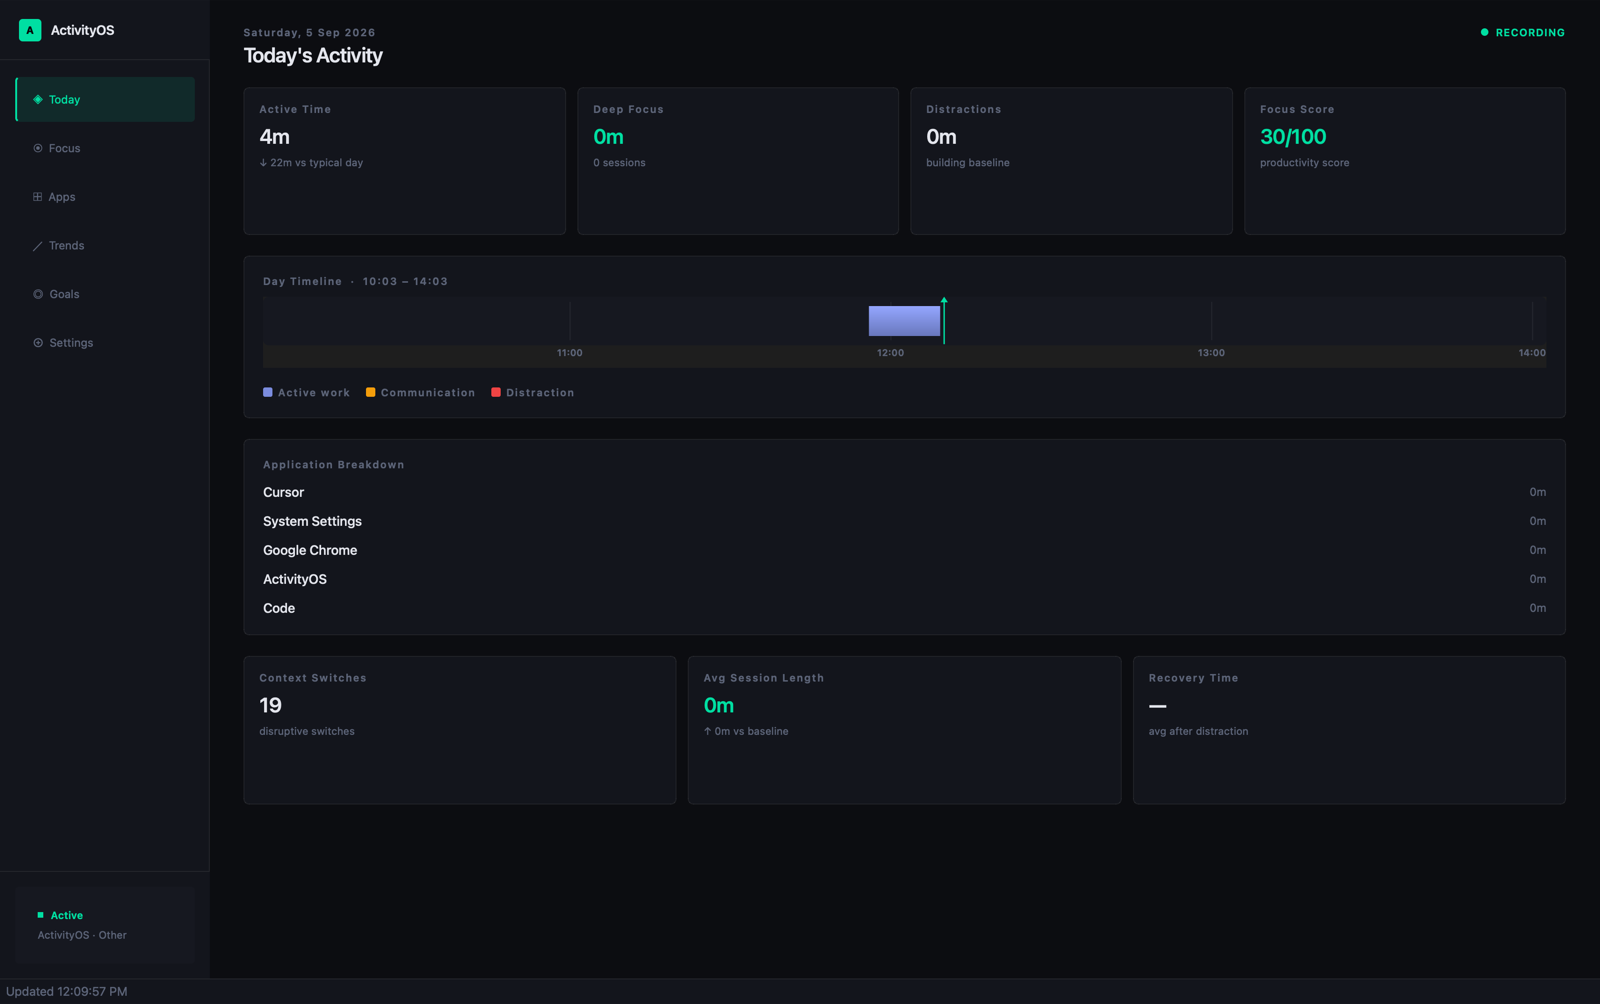
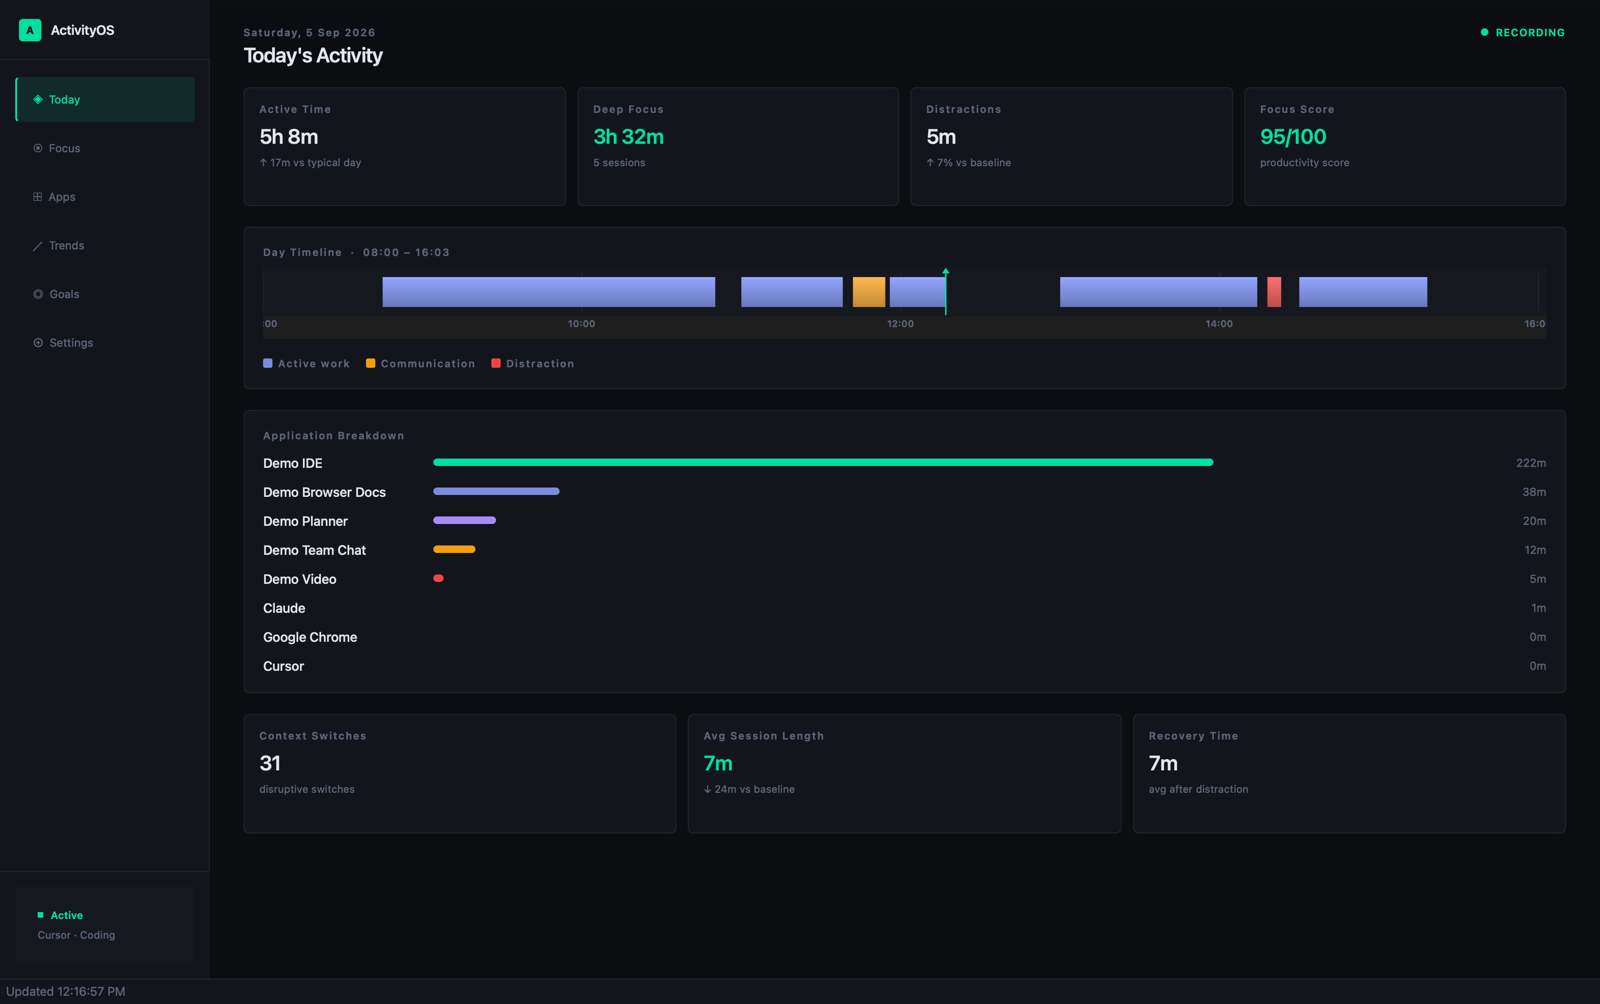
Document design decisions, measured performance, and a v0.1 walkthrough.
Add Why C++/Qt plus deterministic scoring, real CPU/RSS/DB numbers, extra screenshots and a tour GIF, a CI badge, and an honest source-only release path instead of a Gatekeeper-blocked DMG.

diff --git a/README.md b/README.md
@@ -1,5 +1,7 @@
 # ActivityOS
 
+[![build-and-test](https://github.com/eyaghmour07/ActivityOS/actions/workflows/ci.yml/badge.svg)](https://github.com/eyaghmour07/ActivityOS/actions/workflows/ci.yml)
+
 <img src="resources/icons/activityos.png" alt="ActivityOS icon" width="72" height="72">
 
 **Local-first desktop analytics for how you actually spend your workday.**
@@ -10,35 +12,57 @@ Built with **C++20**, **Qt 6**, and **SQLite**.
 
 ![Today dashboard](docs/screenshots/today.png)
 
+![Walkthrough of Today, Focus, Apps, Trends, Goals, and Settings](docs/screenshots/tour.gif)
+
+| [Focus](docs/screenshots/focus.png) | [Trends](docs/screenshots/trends.png) |
+| --- | --- |
+| [Goals](docs/screenshots/goals.png) | [Settings](docs/screenshots/settings.png) |
+
 ## Why it exists
 
-Most productivity tools either invade privacy or give you opaque scores. ActivityOS is built for personal reflection:
-
-- Records **foreground app + idle time** only
-- Stores data in a local SQLite database you control
-- Scores and recommendations are **deterministic and explainable**
-- Optional demo data so you can explore the UI without waiting for history
+Most productivity tools either invade privacy or give you an opaque score. ActivityOS is for personal reflection: it records **foreground app + idle time** only, stores a SQLite file you control, and computes scores you can audit.
 
 ## Features
 
-- Native foreground-app and idle detection (macOS, Windows, Linux/X11)
-- Session, workday, and context-switch detection
-- Browser-aware classification (study / work sites vs streaming distractions)
-- Editable classification rules
-- Daily timeline with hover details, app breakdown, focus sessions, trends
-- 14-day baselines, workstyle profile, and productivity scoring
-- Goals, experiments, CSV/JSON export, pause, exclusions, and delete controls
+- Native foreground-app and idle detection on macOS, Windows, and Linux/X11
+- Session, focus, and context-switch detection with a hoverable day timeline
+- Browser-aware classification (work/study sites vs streaming) plus editable rules
+- 14-day baselines, weekly trends, and an explainable productivity score
+- Goals, experiments, pause/export/delete — data never leaves the device
+
+## Design decisions
+
+I chose **C++20 and Qt 6** because this is a tray-resident tracker that should stay cheap while you work in other apps. A web stack would have been faster to skin, but it would also mean a Chromium process sitting in the dock all day. Qt gives one native UI and system-tray story across macOS, Windows, and Linux, talks cleanly to SQLite, and lets the OS adapters stay in the language the platform APIs already speak (Objective-C++ on macOS, Win32, X11).
+
+Scoring is **deterministic on purpose**. There is no model, no embeddings, no “AI insight” layer. Focus blocks, distraction cost, and the 0–100 score are formulas you can read in [`docs/metrics.md`](docs/metrics.md) and step through in tests. That is slower to look magical and faster to trust: if the number is wrong, you can find the branch. An ML classifier would hide the same mistakes behind a confidence score I could not explain in a code review.
+
+The tradeoff I actually hit: **shipping a Qt app on macOS is harder than writing the analytics.** A CMake binary links Homebrew Qt; a `.app` you drag to `/Applications` has to bundle those frameworks or it dies at launch (“quit unexpectedly”) when two Qt copies load. `macdeployqt` plus ad-hoc codesign is the path that works. A downloaded DMG still gets Gatekeeper-quarantined, so v0.1 ships as source plus an install script rather than a fake one-click installer. That is the honest cost of picking native C++ over Electron.
+
+## Performance
+
+Measured on an Apple Silicon Mac, dashboard open, tracker running (`2026-09-05`):
+
+| Metric | Measured |
+| --- | --- |
+| Sampling interval | **5 s** foreground poll · **60 s** heartbeat · **30 s** UI refresh |
+| Idle threshold | **5 min** of OS-reported idle before a session closes |
+| RSS | **164–193 MiB** (8 samples over 20 s; one jump when the window woke) |
+| CPU | **~0%** between polls · **6.2%** brief spike · **0.8%** average over the same window |
+| Database | **276 KiB** main file after 3 days of live use (736 sessions, 975 events) |
+| Growth | **~90 KiB/day** on that live window → **~0.6 MiB/week** at the same density |
+
+Demo data adds more sessions (840 sessions / 13-day span in this copy) and a WAL file until SQLite checkpoints; the weekly figure above is from live tracking only, not the synthetic load.
 
 ## Status
 
 | Platform | Status |
 |----------|--------|
-| **macOS (Apple Silicon)** | Primary target — install script + dashboard polish |
+| **macOS (Apple Silicon)** | Primary target — build via the install script |
 | Windows | Builds and tracks; packaging less polished |
 | Linux/X11 | Supported |
-| Linux/Wayland | Limited — OS often blocks global window inspection |
+| Linux/Wayland | Limited — compositors often block global window inspection |
 
-Downloaded DMGs can hit macOS Gatekeeper. Prefer building from source (below).
+v0.1 is a **source release**. Build it on the machine that will run it; that avoids Gatekeeper quarantine.
 
 ## Quick start (macOS)
 
@@ -50,15 +74,7 @@ chmod +x scripts/install_macos.sh
 ./scripts/install_macos.sh
 ```
 
-That builds ActivityOS and installs it to `/Applications`. Full friend-share notes: [docs/share-with-a-friend.md](docs/share-with-a-friend.md).
-
-### Update later
-
-```sh
-cd ActivityOS
-git pull
-./scripts/install_macos.sh
-```
+See [docs/share-with-a-friend.md](docs/share-with-a-friend.md) to update or share a copy.
 
 ## Build and test
 
@@ -68,13 +84,7 @@ cmake --build --preset default
 ctest --preset default
 ```
 
-Custom Qt path:
-
-```sh
-cmake -S . -B build -DCMAKE_PREFIX_PATH=/path/to/Qt
-cmake --build build
-ctest --test-dir build --output-on-failure
-```
+CI runs the same four suites (**analytics**, **storage**, **activity source**, **services**) on macOS, Ubuntu, and Windows. They currently pass in **0.8 s** locally. There is no line-coverage gate yet; the suites cover classification (including VS Code / Chrome / lock-screen), sessionization, migrations, and dashboard aggregation.
 
 ### Ubuntu/Debian
 
@@ -90,11 +100,12 @@ Install Qt 6, CMake, Visual Studio 2022 (Desktop C++), and SQLite. Set `CMAKE_PR
 
 - **Recorded:** app names, transitions, idle duration, derived metrics, your rules/goals
 - **Not recorded:** keystrokes, screenshots, webcam, file/page contents, cloud sync
-- Window titles are inspected only when needed for classification and are **not stored by default**
+- Window titles are inspected only for classification and are **not stored by default**
+- Lock-screen / `loginwindow` is treated as idle, not an app
 
-Details: [docs/privacy.md](docs/privacy.md) · metric definitions: [docs/metrics.md](docs/metrics.md)
+Details: [docs/privacy.md](docs/privacy.md) · formulas: [docs/metrics.md](docs/metrics.md)
 
-Data location:
+Data lives at:
 
 - macOS: `~/Library/Application Support/ActivityOS/ActivityOS/activityos.db`
 - Windows: `%LOCALAPPDATA%/ActivityOS/ActivityOS/activityos.db`
@@ -114,7 +125,16 @@ Native OS adapter
 - [`include/activityos/storage.hpp`](include/activityos/storage.hpp) — SQLite + privacy ops
 - [`include/activityos/analytics.hpp`](include/activityos/analytics.hpp) — workstyle metrics
 - [`include/activityos/services.hpp`](include/activityos/services.hpp) — orchestration
-- [`src/app`](src/app) — Qt dashboard, tray, settings, goals
+- [`src/app`](src/app) — dashboard, tray, settings, goals
+
+## What I'd do next
+
+- **Signed, notarized macOS install** so friends can skip building Qt. Gatekeeper is the real distribution blocker, not missing features.
+- **Wayland** needs a compositor-specific path (or an honest “unsupported” forever). Silent fake data would be worse.
+- **Line-coverage + fuzz on the sessionizer** so merge/idle edge cases stay pinned.
+- **Windows installer polish** to match the macOS script.
+
+Known limitations today: Linux/Wayland collection is incomplete; DMG/ZIP downloads are not a supported install path; scores are heuristics, not a measure of job performance.
 
 ## License
 
